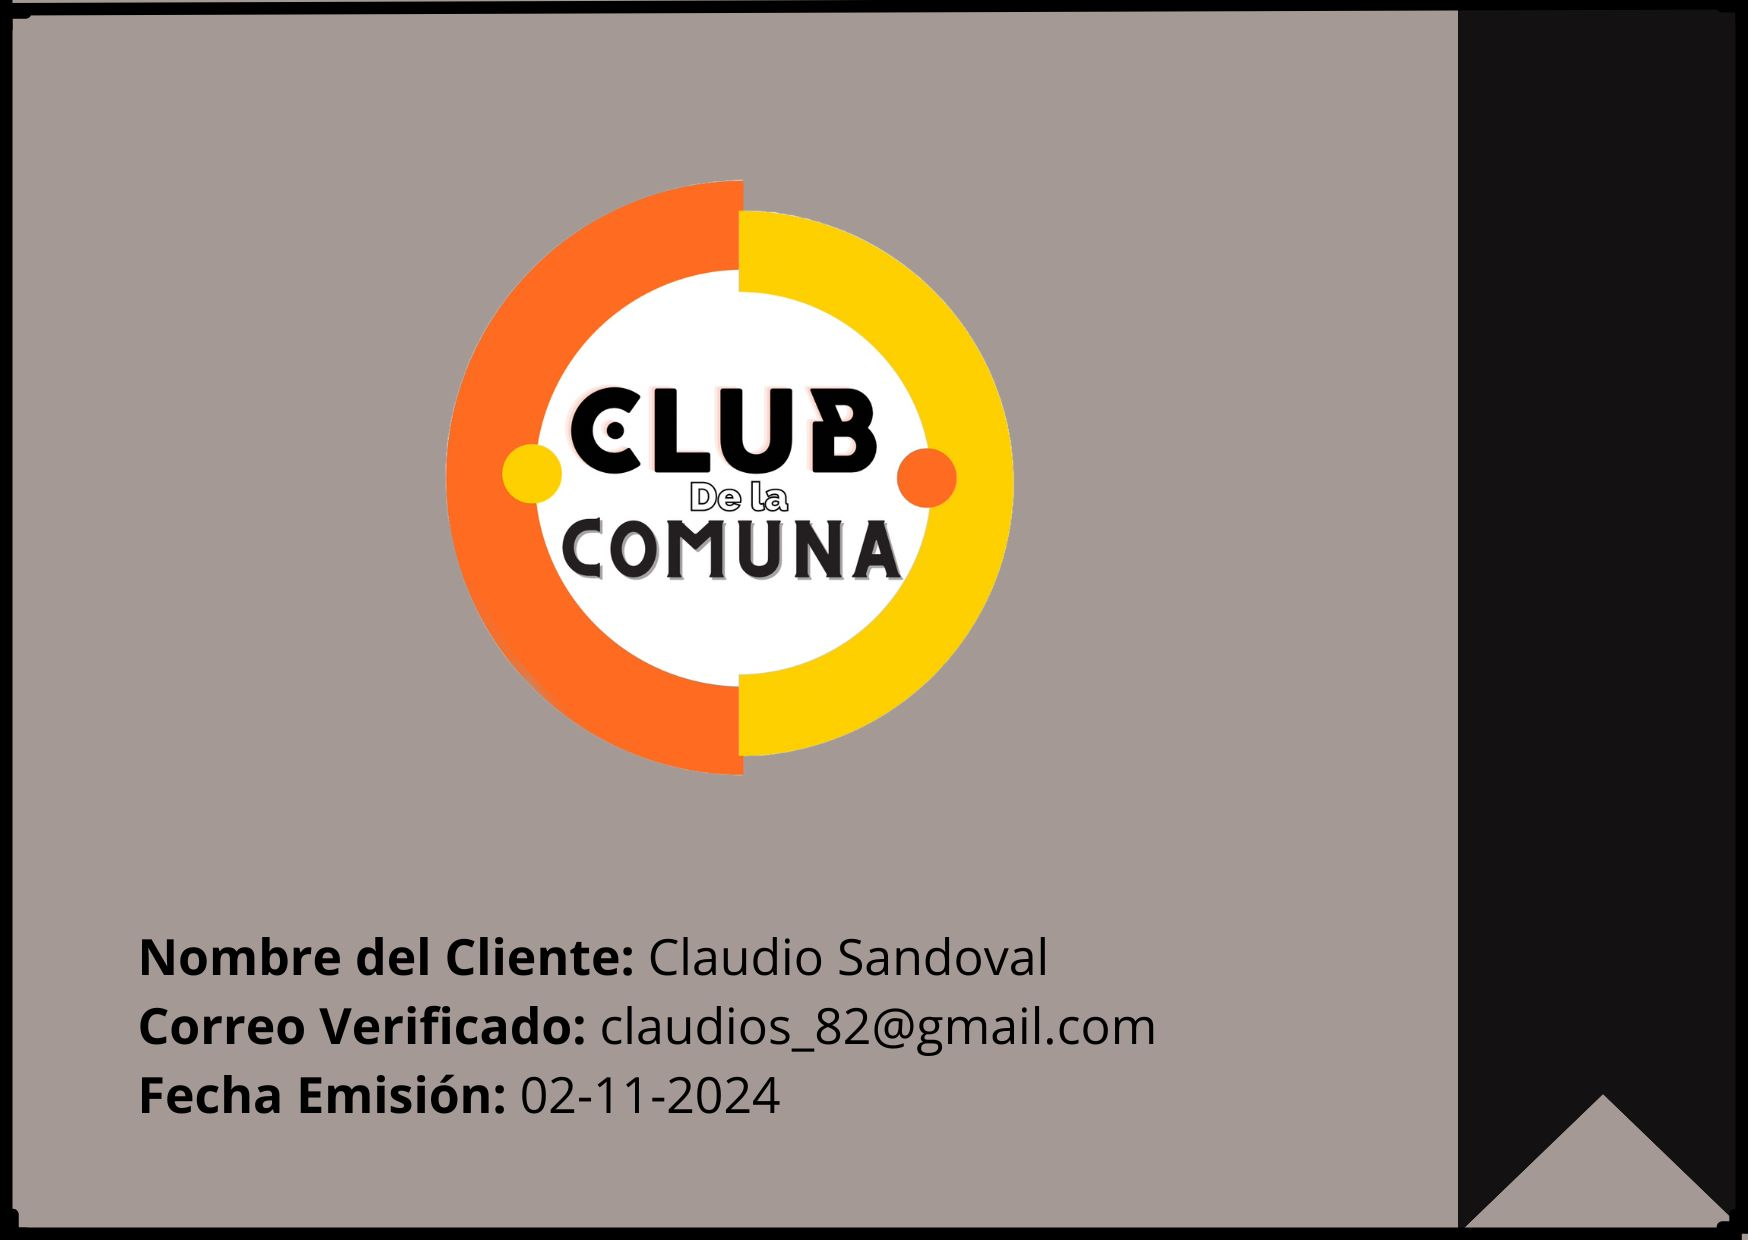
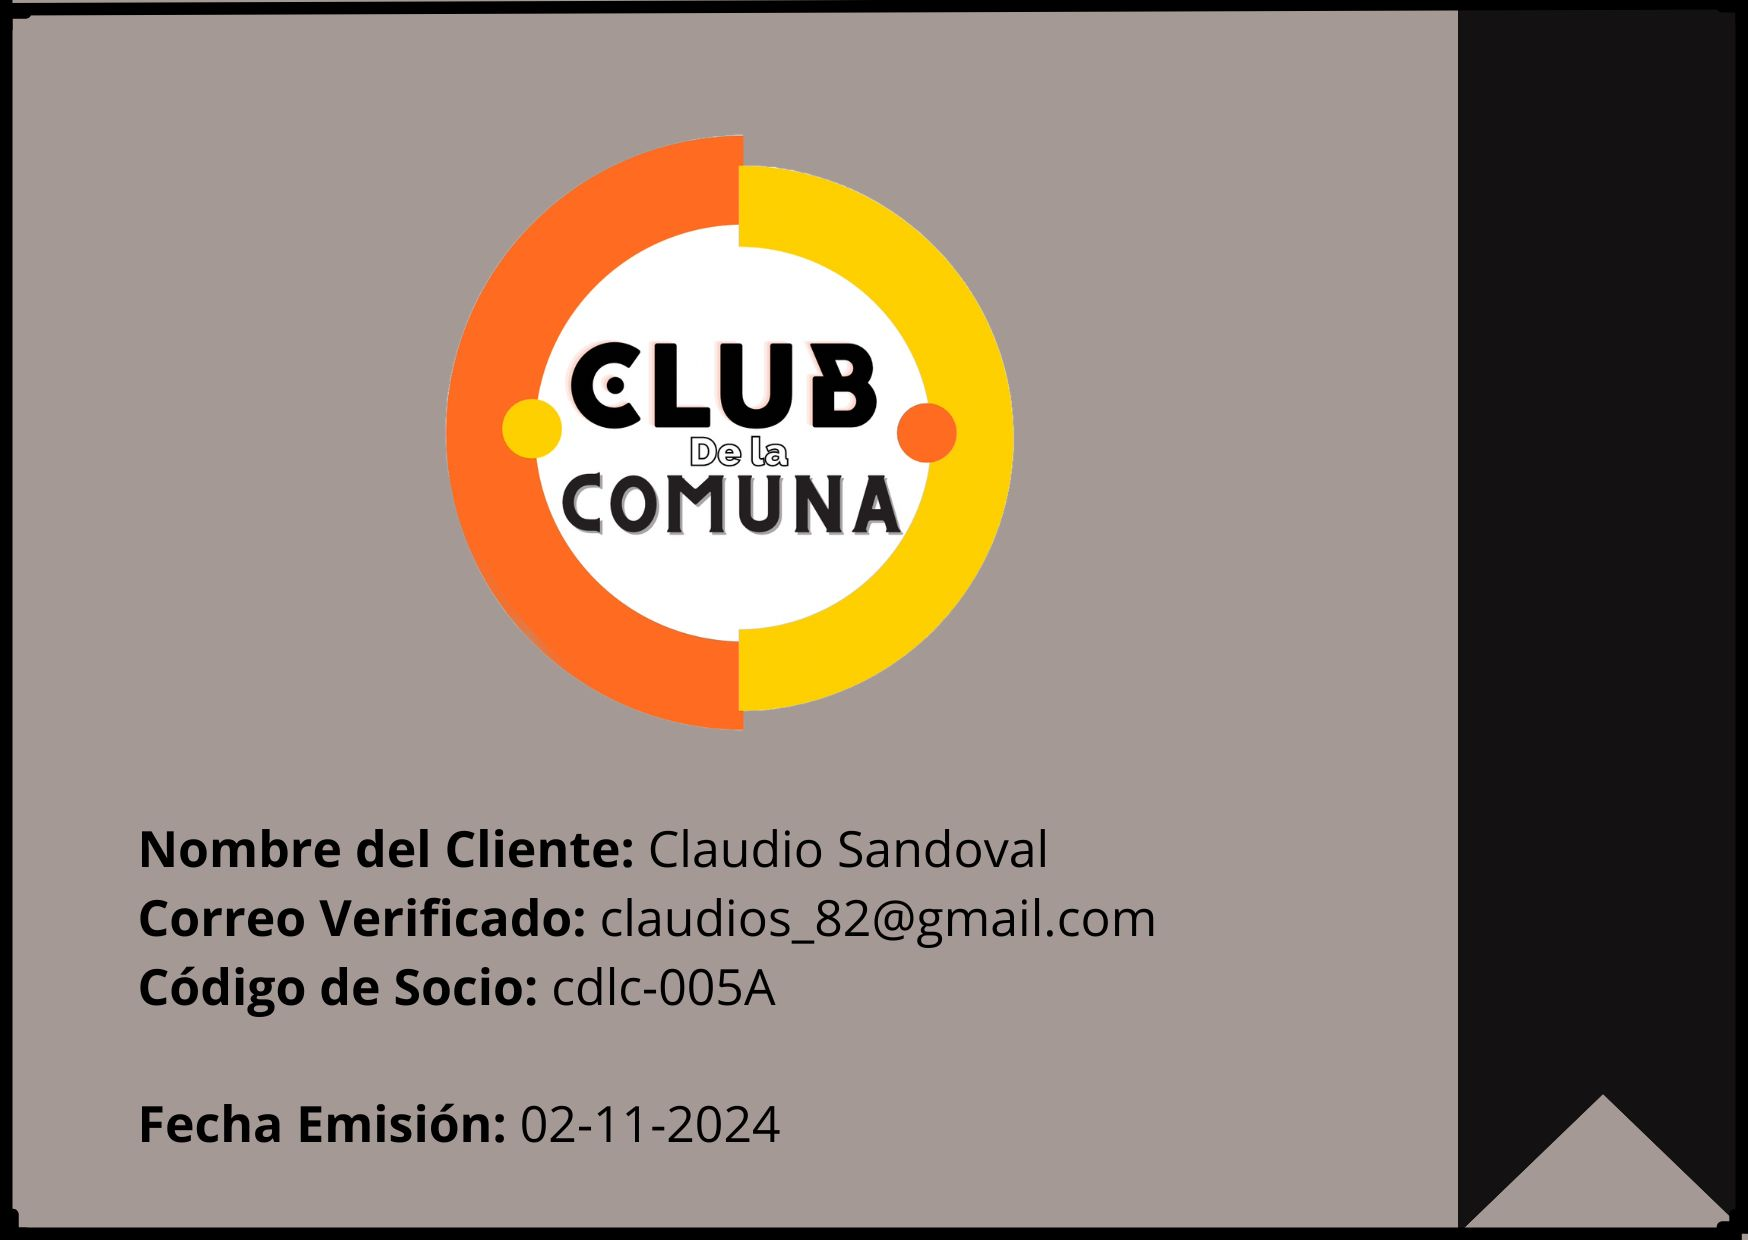
agrega pantallas usuario logueado

Changed region(s): [[0.2471, 0.0919, 0.587, 0.6435], [0.0618, 0.6742, 0.6487, 0.9194]]

diff --git a/core/templates/core/usuario_logueado.html b/core/templates/core/usuario_logueado.html
@@ -1,0 +1,64 @@
+{% extends 'core/base.html' %}
+{% load static %}
+
+{% block title %}Bienvenido - Club de la Comuna{% endblock %}
+
+{% block content %}
+<main>
+    <!-- Sección de bienvenida con fondo naranja degradado -->
+    <section class="welcome-header text-black py-5" style="background: linear-gradient(to right, #FF7F00, #FFB347);">
+        <div class="container text-center">
+            <h2 class="mb-3"><strong>¡Bienvenido al Club de la Comuna!</strong></h2>
+            <br>
+            <div style="text-align: justify; display: inline-block;">
+                <h3>Nombre del Cliente: Claudio Sandoval {{ user.nombre }}</h3>
+                <h3>Email Verificado: claudios_82@gmail.com {{ user.email }}</h3>
+                <h3>Código de Socio: <strong>cdlc-005A{{ user.codigo_socio }}</strong></h3>
+                <h3>Fecha de Emisión: 02-11-2024 {{ user.fecha_emision }}</h3>
+                <!--<h3>Tarjeta Activa: Sí {{ user.tarjeta_activa }} que esté oculto para el usuario</h3>-->
+            </div>
+        </div>
+    </section>
+    
+
+
+    <section class="user-welcome bg-black py-5 text-white">
+        <div class="container text-center">            
+            <div class="mt-5">
+                <p class="fs-5 text-white">
+                    Estimado Claudio Sandoval{{ user.nombre }},<br>
+                    Gracias por ser parte de nuestra comunidad de negocios locales. Presentando esta tarjeta, podrás disfrutar de descuentos exclusivos en todos los establecimientos miembros de nuestro club. Úsala para obtener beneficios especiales y apoyar a los negocios locales que tanto apreciamos.
+                </p>
+                <!-- Imagen de la tarjeta virtual y botón de descarga -->
+                <div class="card mt-4 mx-auto" style="width: 300px; padding: 20px; background: #444;">
+                    <img src="{% static 'core/images/tarjeta_virtual.jpg' %}" alt="Tarjeta Virtual" class="img-fluid mb-3">
+                </div>
+            </div>
+        </div>
+    </section>
+
+    <!-- Instrucciones de Uso -->
+    <section class="usage-instructions bg-white py-5 text-center text-black">
+        <div class="container">
+            <h2 class="mb-4">Instrucciones de Uso</h2>
+            <p>• Presenta esta tarjeta virtual en el punto de venta de cualquier negocio socio del Club.</p>
+            <p>• Asegúrate de mostrar tu Código de Socio para validar el descuento.</p>
+            <p>• Disfruta de tus compras y de los ahorros.</p>
+            <p>Para ver la lista completa de negocios participantes y los descuentos que ofrecen, haz click aquí: <a href="{% url 'negocios' %}">Negocios Locales Socios del Club</a></p>
+        </div>
+    </section>
+
+    <!-- Términos y Condiciones -->
+    <section class="terms-conditions bg-black py-5 text-white text-center">
+        <div class="container">
+            <h2 class="mb-4">Términos y Condiciones</h2>
+            <p>• Solo válido en negocios afiliados al Club de la Comuna.</p>
+            <p>• Descuentos sujetos a disponibilidad en cada tienda.</p>
+            <p>• Cada negocio puede requerir la validación de los datos de la tarjeta virtual para aplicar los descuentos.</p>
+            <p class="mt-4">¡Gracias por apoyar a nuestra comunidad!</p>
+            <br>
+            <h4 class="mt-3">Atentamente,<br>Club de la Comuna</h4>
+        </div>
+    </section>
+</main>
+{% endblock %}

diff --git a/core/templates/core/inicio_sesion.html b/core/templates/core/inicio_sesion.html
@@ -18,7 +18,7 @@
         <!-- Lado derecho: Inicio de Sesión -->
         <div class="login-form d-flex flex-column align-items-center justify-content-center p-5" style="flex: 1; background-color: #f9f9f9;">
             <h2 class="mb-4">Inicia sesión con tu cuenta Google</h2>
-            <a href="#" class="btn btn-outline-dark btn-lg mb-4 d-flex align-items-center" target="_blank" style="width: 80%;">
+            <a href="{% url 'usuario_logueado' %}" class="btn btn-outline-dark btn-lg mb-4 d-flex align-items-center" style="width: 80%;">
                 <img src="{% static 'core/images/Google.jpeg' %}" alt="Google Logo" style="width: 20px; height: 20px;" class="me-2">
                 Continúa con Google
             </a>

diff --git a/core/views.py b/core/views.py
@@ -26,6 +26,9 @@ def inicio_sesion(request):
 def como_unirse(request):
     return render(request, "core/como_unirse.html")
 
+def usuario_logueado(request):
+    return render(request, "core/usuario_logueado.html")
+
 def lista_negocios(request):
     negocios = Negocio.objects.all()  # pylint: disable=no-member  # 
     return render(request, 'core/negocios.html', {'negocios': negocios})

diff --git a/club_de_la_comuna/urls.py b/club_de_la_comuna/urls.py
@@ -14,4 +14,5 @@ urlpatterns = [
     path('chat/send/', views.send_message, name='send_message'),
     path('inicio_sesion/', views.inicio_sesion, name='inicio_sesion'),
     path('como_unirse/', views.como_unirse, name='como_unirse'),
+    path('usuario_logueado/', views.usuario_logueado, name='usuario_logueado'),
 ]
